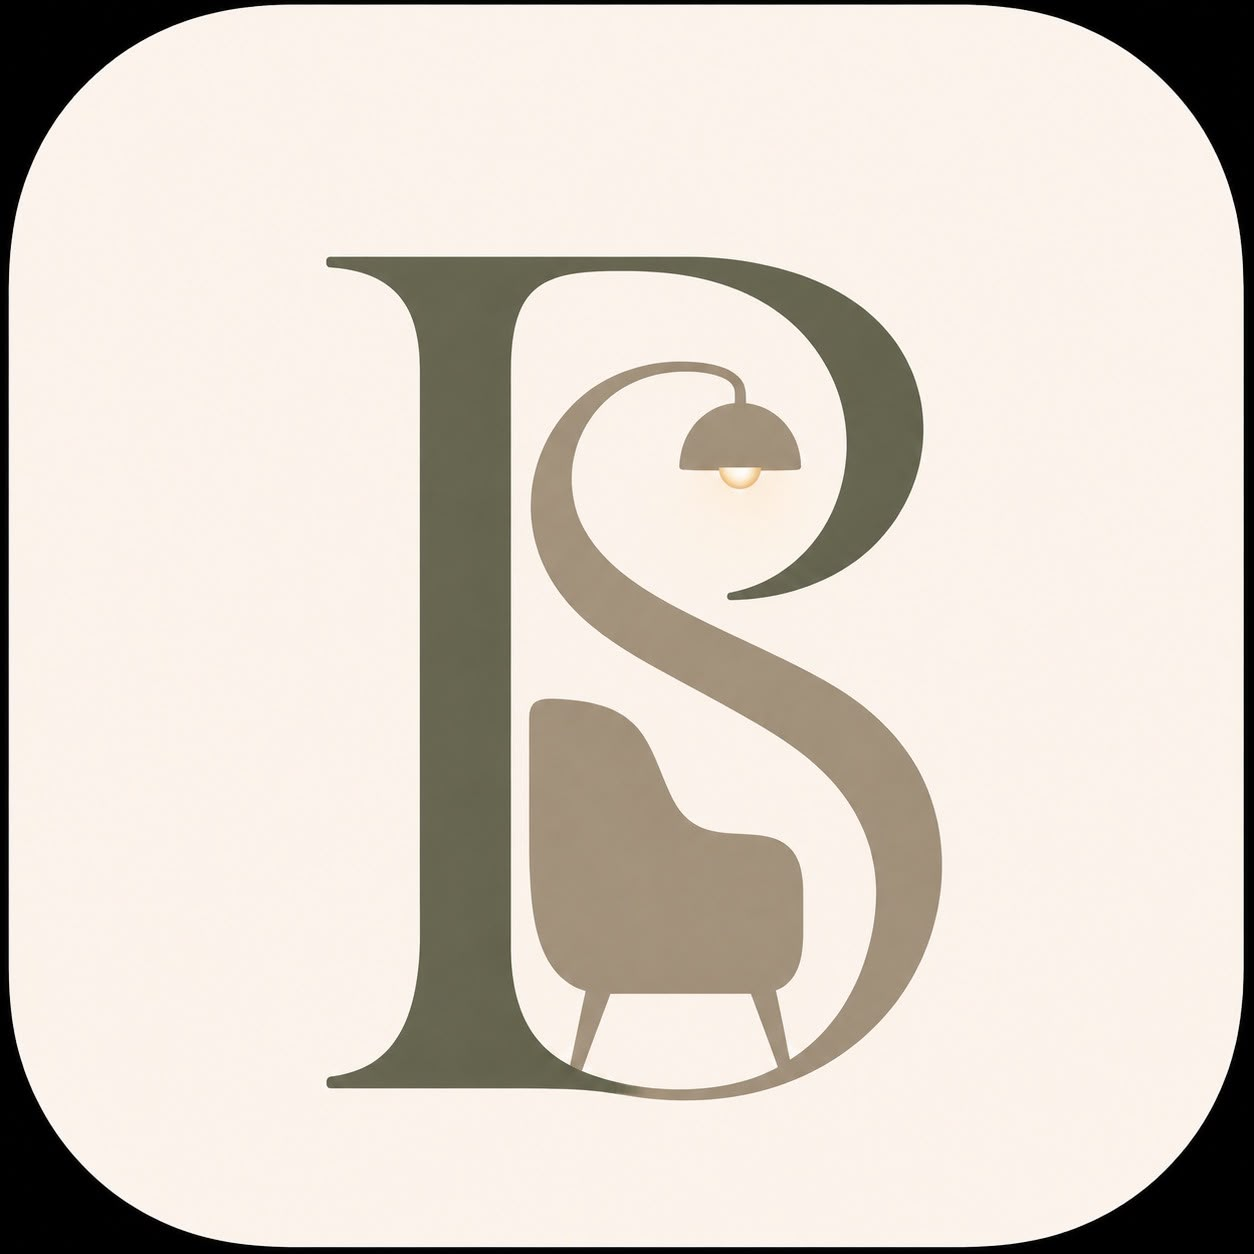
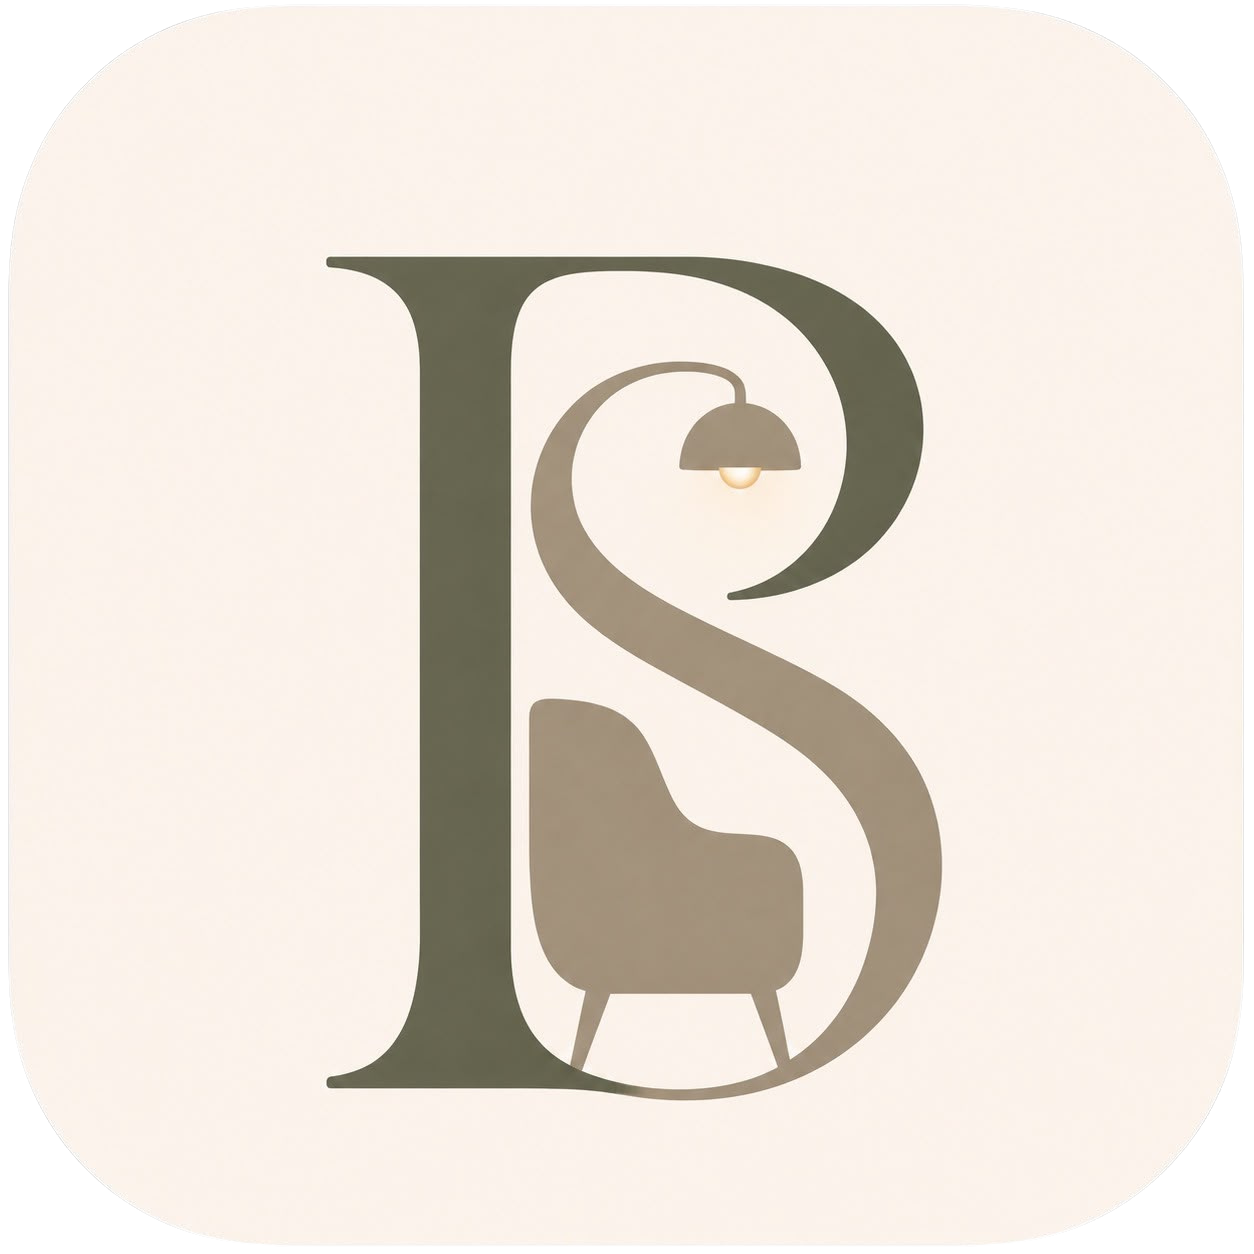
fix(branding): atualizar logotipo sem bordas escuras e com acabamento suave

Changed region(s): [[0.0, 0.0, 1.0, 1.0]]

diff --git a/app/landing/page.tsx b/app/landing/page.tsx
@@ -600,9 +600,9 @@ export default function LandingPage() {
                   {/* Top Bar do Card Interativo */}
                   <div className="flex items-center justify-between pb-4 border-b border-border/60">
                     <div className="flex items-center gap-2.5">
-                      <div className="w-9 h-9 rounded-xl overflow-hidden shadow-2xs border border-border/40 shrink-0">
+                      <div className="w-9 h-9 rounded-xl overflow-hidden shrink-0 bg-transparent">
                         {/* eslint-disable-next-line @next/next/no-img-element */}
-                        <img src="/logo.png" alt="PsiSetting" className="w-full h-full object-cover" />
+                        <img src="/logo.png" alt="PsiSetting" className="w-full h-full object-contain" />
                       </div>
                       <div>
                         <h3 className="text-sm font-semibold text-text">Setting Clínico Digital</h3>
@@ -1279,9 +1279,9 @@ export default function LandingPage() {
       <section className="py-20 sm:py-28 bg-gradient-to-b from-surface via-background to-background text-center relative">
         <div className="max-w-4xl mx-auto px-4 sm:px-6 lg:px-8 space-y-6">
           <Reveal>
-            <div className="w-16 h-16 rounded-2xl overflow-hidden shadow-md border border-border/60 mx-auto mb-4 bg-surface p-1">
+            <div className="w-16 h-16 rounded-2xl overflow-hidden mx-auto mb-4 bg-transparent">
               {/* eslint-disable-next-line @next/next/no-img-element */}
-              <img src="/logo.png" alt="PsiSetting" className="w-full h-full object-cover rounded-xl" />
+              <img src="/logo.png" alt="PsiSetting" className="w-full h-full object-contain" />
             </div>
             <h2 className="text-3xl sm:text-4xl lg:text-5xl font-serif font-bold text-text leading-tight">
               Seu setting clínico organizado e protegido.

diff --git a/app/login/page.tsx b/app/login/page.tsx
@@ -396,13 +396,13 @@ export default function LoginPage() {
       <div className="relative w-full max-w-md">
         {/* Header com Identidade Visual Oficial */}
         <div className="text-center mb-8 flex flex-col items-center">
-          <div className="w-16 h-16 rounded-2xl overflow-hidden shadow-md border border-border/60 mb-3 bg-surface p-1">
+          <div className="w-16 h-16 rounded-2xl overflow-hidden mb-3 bg-transparent">
             <Image
               src="/logo.png"
               alt="PsiSetting"
               width={64}
               height={64}
-              className="w-full h-full object-cover rounded-xl"
+              className="w-full h-full object-contain"
               priority
             />
           </div>

diff --git a/app/components/psi-setting-brand.tsx b/app/components/psi-setting-brand.tsx
@@ -43,13 +43,13 @@ export function PsiSettingBrand({
   return (
     <div className={`inline-flex items-center gap-2.5 leading-tight ${className}`}>
       {showIcon && (
-        <div className={`relative shrink-0 overflow-hidden shadow-xs border border-border/40 ${currentIcon.className}`}>
+        <div className={`relative shrink-0 overflow-hidden bg-transparent ${currentIcon.className}`}>
           <Image
             src="/logo.png"
             alt="PsiSetting Logo"
             width={currentIcon.size}
             height={currentIcon.size}
-            className="w-full h-full object-cover"
+            className="w-full h-full object-contain"
             priority
           />
         </div>
